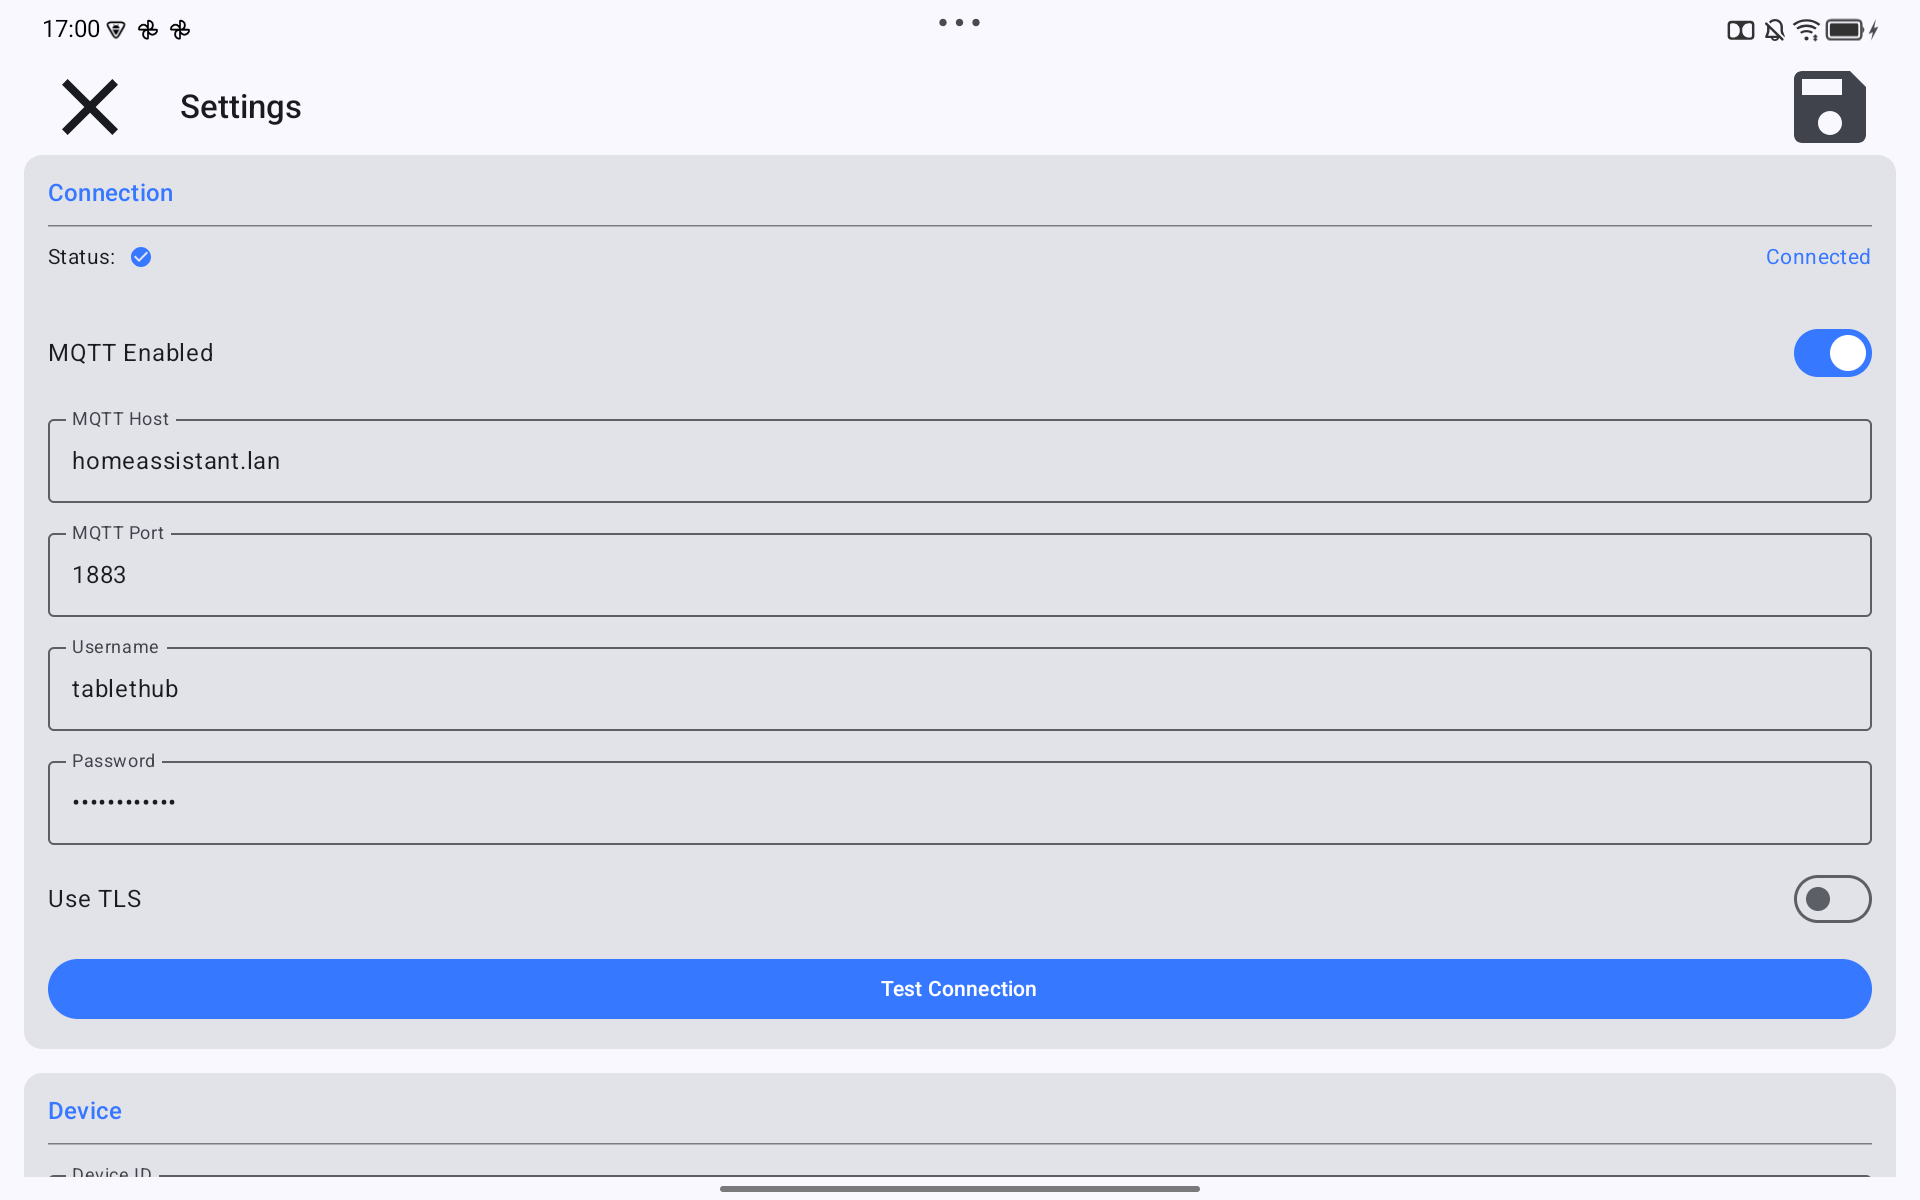
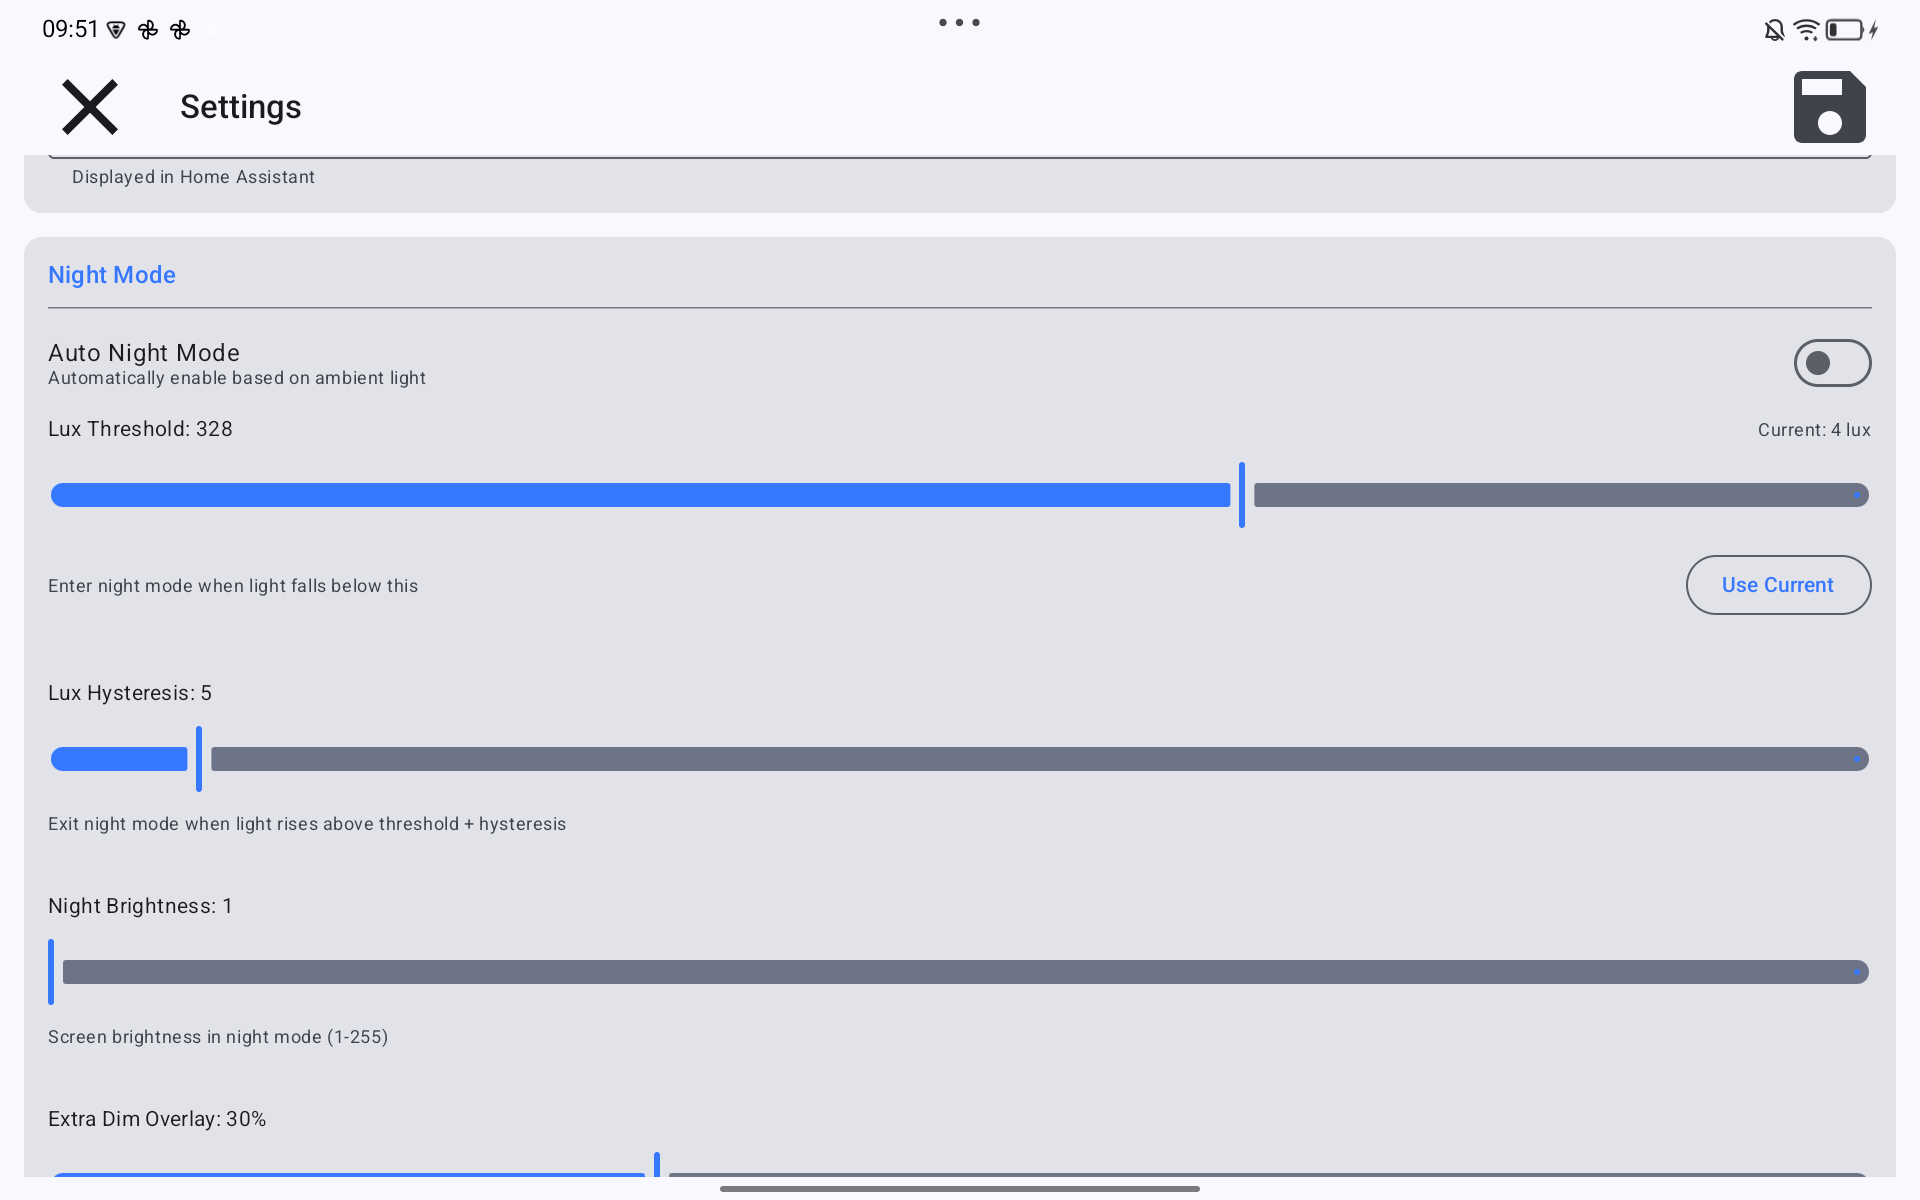
Add extra dim overlay for night mode and convert settings to sliders
Add a configurable dim overlay (0-90%) that draws a semi-transparent
black layer over the night clock display, allowing the screen to appear
darker than the hardware minimum brightness. Also convert numeric
settings fields to sliders for better UX: lux threshold, lux hysteresis,
night brightness, and snooze duration.

diff --git a/app/src/main/java/net/damian/tablethub/ui/screens/settings/SettingsScreen.kt b/app/src/main/java/net/damian/tablethub/ui/screens/settings/SettingsScreen.kt
@@ -30,6 +30,7 @@ import androidx.compose.material3.MaterialTheme
 import androidx.compose.material3.OutlinedButton
 import androidx.compose.material3.OutlinedTextField
 import androidx.compose.material3.Scaffold
+import androidx.compose.material3.Slider
 import androidx.compose.material3.SnackbarHost
 import androidx.compose.material3.SnackbarHostState
 import androidx.compose.material3.Switch
@@ -232,25 +233,37 @@ fun SettingsScreen(
                     subtitle = "Automatically enable based on ambient light"
                 )
 
-                OutlinedTextField(
-                    value = uiState.nightModeConfig.luxThreshold.toString(),
-                    onValueChange = { viewModel.updateNightModeLuxThreshold(it) },
-                    label = { Text("Lux Threshold") },
-                    modifier = Modifier.fillMaxWidth(),
-                    singleLine = true,
-                    keyboardOptions = KeyboardOptions(keyboardType = KeyboardType.Number),
-                    supportingText = { Text("Enter night mode when light falls below this (default: 15)") }
-                )
-
-                // Calibration row
                 Row(
                     modifier = Modifier.fillMaxWidth(),
                     horizontalArrangement = Arrangement.SpaceBetween,
                     verticalAlignment = Alignment.CenterVertically
                 ) {
                     Text(
-                        text = "Current light: ${currentLux.toInt()} lux",
+                        text = "Lux Threshold: ${uiState.nightModeConfig.luxThreshold}",
                         style = MaterialTheme.typography.bodyMedium
+                    )
+                    Text(
+                        text = "Current: ${currentLux.toInt()} lux",
+                        style = MaterialTheme.typography.bodySmall,
+                        color = MaterialTheme.colorScheme.onSurfaceVariant
+                    )
+                }
+                Slider(
+                    value = uiState.nightModeConfig.luxThreshold.toFloat(),
+                    onValueChange = { viewModel.updateNightModeLuxThreshold(it.toInt()) },
+                    valueRange = 1f..500f,
+                    modifier = Modifier.fillMaxWidth()
+                )
+                Row(
+                    modifier = Modifier.fillMaxWidth(),
+                    horizontalArrangement = Arrangement.SpaceBetween,
+                    verticalAlignment = Alignment.CenterVertically
+                ) {
+                    Text(
+                        text = "Enter night mode when light falls below this",
+                        style = MaterialTheme.typography.bodySmall,
+                        color = MaterialTheme.colorScheme.onSurfaceVariant,
+                        modifier = Modifier.weight(1f)
                     )
                     OutlinedButton(
                         onClick = { viewModel.calibrateLuxThreshold() }
@@ -259,24 +272,58 @@ fun SettingsScreen(
                     }
                 }
 
-                OutlinedTextField(
-                    value = uiState.nightModeConfig.luxHysteresis.toString(),
-                    onValueChange = { viewModel.updateNightModeLuxHysteresis(it) },
-                    label = { Text("Lux Hysteresis") },
-                    modifier = Modifier.fillMaxWidth(),
-                    singleLine = true,
-                    keyboardOptions = KeyboardOptions(keyboardType = KeyboardType.Number),
-                    supportingText = { Text("Exit night mode when light rises above threshold + hysteresis (default: 5)") }
+                Spacer(modifier = Modifier.height(16.dp))
+
+                Text(
+                    text = "Lux Hysteresis: ${uiState.nightModeConfig.luxHysteresis}",
+                    style = MaterialTheme.typography.bodyMedium
+                )
+                Slider(
+                    value = uiState.nightModeConfig.luxHysteresis.toFloat(),
+                    onValueChange = { viewModel.updateNightModeLuxHysteresis(it.toInt()) },
+                    valueRange = 1f..50f,
+                    modifier = Modifier.fillMaxWidth()
+                )
+                Text(
+                    text = "Exit night mode when light rises above threshold + hysteresis",
+                    style = MaterialTheme.typography.bodySmall,
+                    color = MaterialTheme.colorScheme.onSurfaceVariant
                 )
 
-                OutlinedTextField(
-                    value = uiState.nightModeConfig.nightBrightness.toString(),
-                    onValueChange = { viewModel.updateNightModeBrightness(it) },
-                    label = { Text("Night Brightness") },
-                    modifier = Modifier.fillMaxWidth(),
-                    singleLine = true,
-                    keyboardOptions = KeyboardOptions(keyboardType = KeyboardType.Number),
-                    supportingText = { Text("Screen brightness in night mode (1-255, default: 5)") }
+                Spacer(modifier = Modifier.height(16.dp))
+
+                Text(
+                    text = "Night Brightness: ${uiState.nightModeConfig.nightBrightness}",
+                    style = MaterialTheme.typography.bodyMedium
+                )
+                Slider(
+                    value = uiState.nightModeConfig.nightBrightness.toFloat(),
+                    onValueChange = { viewModel.updateNightModeBrightness(it.toInt()) },
+                    valueRange = 1f..255f,
+                    modifier = Modifier.fillMaxWidth()
+                )
+                Text(
+                    text = "Screen brightness in night mode (1-255)",
+                    style = MaterialTheme.typography.bodySmall,
+                    color = MaterialTheme.colorScheme.onSurfaceVariant
+                )
+
+                Spacer(modifier = Modifier.height(16.dp))
+
+                Text(
+                    text = "Extra Dim Overlay: ${uiState.nightModeConfig.dimOverlay}%",
+                    style = MaterialTheme.typography.bodyMedium
+                )
+                Slider(
+                    value = uiState.nightModeConfig.dimOverlay.toFloat(),
+                    onValueChange = { viewModel.updateNightModeDimOverlay(it.toInt()) },
+                    valueRange = 0f..90f,
+                    modifier = Modifier.fillMaxWidth()
+                )
+                Text(
+                    text = "Dims the screen beyond minimum brightness using a dark overlay",
+                    style = MaterialTheme.typography.bodySmall,
+                    color = MaterialTheme.colorScheme.onSurfaceVariant
                 )
             }
 
@@ -289,14 +336,20 @@ fun SettingsScreen(
                     subtitle = "Disable to let Home Assistant control wake-up (music, lights)"
                 )
 
-                OutlinedTextField(
-                    value = uiState.snoozeDurationMinutes.toString(),
-                    onValueChange = { viewModel.updateSnoozeDuration(it) },
-                    label = { Text("Snooze Duration (minutes)") },
-                    modifier = Modifier.fillMaxWidth(),
-                    singleLine = true,
-                    keyboardOptions = KeyboardOptions(keyboardType = KeyboardType.Number),
-                    supportingText = { Text("How long to snooze when you tap Snooze (1-60, default: 9)") }
+                Text(
+                    text = "Snooze Duration: ${uiState.snoozeDurationMinutes} minutes",
+                    style = MaterialTheme.typography.bodyMedium
+                )
+                Slider(
+                    value = uiState.snoozeDurationMinutes.toFloat(),
+                    onValueChange = { viewModel.updateSnoozeDuration(it.toInt()) },
+                    valueRange = 1f..30f,
+                    modifier = Modifier.fillMaxWidth()
+                )
+                Text(
+                    text = "How long to snooze when you tap Snooze",
+                    style = MaterialTheme.typography.bodySmall,
+                    color = MaterialTheme.colorScheme.onSurfaceVariant
                 )
             }
 

diff --git a/app/src/main/java/net/damian/tablethub/ui/screens/settings/SettingsViewModel.kt b/app/src/main/java/net/damian/tablethub/ui/screens/settings/SettingsViewModel.kt
@@ -136,24 +136,31 @@ class SettingsViewModel @Inject constructor(
         )
     }
 
-    fun updateNightModeLuxThreshold(threshold: String) {
-        val thresholdInt = threshold.toIntOrNull() ?: return
+    fun updateNightModeLuxThreshold(threshold: Int) {
+        val thresholdInt = threshold.coerceIn(1, 500)
         _uiState.value = _uiState.value.copy(
             nightModeConfig = _uiState.value.nightModeConfig.copy(luxThreshold = thresholdInt)
         )
     }
 
-    fun updateNightModeLuxHysteresis(hysteresis: String) {
-        val hysteresisInt = hysteresis.toIntOrNull() ?: return
+    fun updateNightModeLuxHysteresis(hysteresis: Int) {
+        val hysteresisInt = hysteresis.coerceIn(1, 50)
         _uiState.value = _uiState.value.copy(
             nightModeConfig = _uiState.value.nightModeConfig.copy(luxHysteresis = hysteresisInt)
         )
     }
 
-    fun updateNightModeBrightness(brightness: String) {
-        val brightnessInt = brightness.toIntOrNull()?.coerceIn(1, 255) ?: return
+    fun updateNightModeBrightness(brightness: Int) {
+        val brightnessInt = brightness.coerceIn(1, 255)
         _uiState.value = _uiState.value.copy(
             nightModeConfig = _uiState.value.nightModeConfig.copy(nightBrightness = brightnessInt)
+        )
+    }
+
+    fun updateNightModeDimOverlay(dimOverlay: Int) {
+        val dimOverlayInt = dimOverlay.coerceIn(0, 90)
+        _uiState.value = _uiState.value.copy(
+            nightModeConfig = _uiState.value.nightModeConfig.copy(dimOverlay = dimOverlayInt)
         )
     }
 
@@ -176,8 +183,8 @@ class SettingsViewModel @Inject constructor(
         }
     }
 
-    fun updateSnoozeDuration(minutes: String) {
-        val minutesInt = minutes.toIntOrNull()?.coerceIn(1, 60) ?: return
+    fun updateSnoozeDuration(minutes: Int) {
+        val minutesInt = minutes.coerceIn(1, 60)
         _uiState.value = _uiState.value.copy(snoozeDurationMinutes = minutesInt)
         // Save immediately
         viewModelScope.launch {

diff --git a/app/src/main/java/net/damian/tablethub/data/preferences/SettingsDataStore.kt b/app/src/main/java/net/damian/tablethub/data/preferences/SettingsDataStore.kt
@@ -39,6 +39,7 @@ class SettingsDataStore @Inject constructor(
     private val nightModeLuxThresholdKey = intPreferencesKey("night_mode_lux_threshold")
     private val nightModeLuxHysteresisKey = intPreferencesKey("night_mode_lux_hysteresis")
     private val nightModeBrightnessKey = intPreferencesKey("night_mode_brightness")
+    private val nightModeDimOverlayKey = intPreferencesKey("night_mode_dim_overlay")
 
     // Weather Settings
     private val weatherEnabledKey = booleanPreferencesKey("weather_enabled")
@@ -76,7 +77,8 @@ class SettingsDataStore @Inject constructor(
             autoEnabled = preferences[nightModeAutoEnabledKey] ?: false,
             luxThreshold = preferences[nightModeLuxThresholdKey] ?: 15,
             luxHysteresis = preferences[nightModeLuxHysteresisKey] ?: 5,
-            nightBrightness = preferences[nightModeBrightnessKey] ?: 5
+            nightBrightness = preferences[nightModeBrightnessKey] ?: 5,
+            dimOverlay = preferences[nightModeDimOverlayKey] ?: 0
         )
     }
 
@@ -140,6 +142,7 @@ class SettingsDataStore @Inject constructor(
             preferences[nightModeLuxThresholdKey] = config.luxThreshold
             preferences[nightModeLuxHysteresisKey] = config.luxHysteresis
             preferences[nightModeBrightnessKey] = config.nightBrightness
+            preferences[nightModeDimOverlayKey] = config.dimOverlay
         }
     }
 
@@ -185,7 +188,8 @@ data class NightModeConfig(
     val autoEnabled: Boolean = false,
     val luxThreshold: Int = 15,
     val luxHysteresis: Int = 5,
-    val nightBrightness: Int = 5
+    val nightBrightness: Int = 5,
+    val dimOverlay: Int = 0  // Extra dim overlay percentage (0-90)
 )
 
 data class WeatherConfig(

diff --git a/app/src/main/java/net/damian/tablethub/service/display/NightModeManager.kt b/app/src/main/java/net/damian/tablethub/service/display/NightModeManager.kt
@@ -54,7 +54,8 @@ class NightModeManager @Inject constructor(
                             isAutoEnabled = config.autoEnabled,
                             luxThreshold = config.luxThreshold.toFloat(),
                             luxHysteresis = config.luxHysteresis.toFloat(),
-                            nightBrightness = config.nightBrightness
+                            nightBrightness = config.nightBrightness,
+                            dimOverlay = config.dimOverlay
                         )
                     } else {
                         // Subsequent updates: only update config values, not manual state
@@ -63,7 +64,8 @@ class NightModeManager @Inject constructor(
                             isAutoEnabled = config.autoEnabled,
                             luxThreshold = config.luxThreshold.toFloat(),
                             luxHysteresis = config.luxHysteresis.toFloat(),
-                            nightBrightness = config.nightBrightness
+                            nightBrightness = config.nightBrightness,
+                            dimOverlay = config.dimOverlay
                         )
                     }
                 }
@@ -194,5 +196,6 @@ data class NightModeState(
     val luxThreshold: Float = 15f,
     val luxHysteresis: Float = 5f,
     val nightBrightness: Int = 5,
+    val dimOverlay: Int = 0,  // Extra dim overlay percentage (0-90)
     val preNightBrightness: Int? = null  // Brightness level before entering night mode
 )

diff --git a/app/src/main/java/net/damian/tablethub/ui/screens/clock/NightClockDisplay.kt b/app/src/main/java/net/damian/tablethub/ui/screens/clock/NightClockDisplay.kt
@@ -14,6 +14,7 @@ import androidx.compose.runtime.remember
 import androidx.compose.runtime.setValue
 import androidx.compose.ui.Alignment
 import androidx.compose.ui.Modifier
+import androidx.compose.ui.graphics.Color
 import androidx.compose.ui.text.font.FontWeight
 import androidx.compose.ui.unit.sp
 import kotlinx.coroutines.delay
@@ -26,11 +27,16 @@ import java.time.format.DateTimeFormatter
  * Minimal night mode clock display.
  * Shows only the time in red on a pure black background.
  * Tap anywhere to exit night mode.
+ *
+ * @param dimOverlay Extra dimming percentage (0-90). Draws a semi-transparent
+ *                   black overlay on top of everything to make the screen appear
+ *                   darker than the hardware minimum brightness allows.
  */
 @Composable
 fun NightClockDisplay(
     onTap: () -> Unit,
-    modifier: Modifier = Modifier
+    modifier: Modifier = Modifier,
+    dimOverlay: Int = 0
 ) {
     var currentTimeMillis by remember { mutableLongStateOf(System.currentTimeMillis()) }
 
@@ -64,5 +70,14 @@ fun NightClockDisplay(
             color = NightRed,
             letterSpacing = (-4).sp
         )
+
+        // Extra dim overlay - draws semi-transparent black on top of everything
+        if (dimOverlay > 0) {
+            Box(
+                modifier = Modifier
+                    .fillMaxSize()
+                    .background(Color.Black.copy(alpha = dimOverlay / 100f))
+            )
+        }
     }
 }

diff --git a/app/src/main/java/net/damian/tablethub/MainActivity.kt b/app/src/main/java/net/damian/tablethub/MainActivity.kt
@@ -64,7 +64,8 @@ class MainActivity : ComponentActivity() {
                 } else if (nightModeState.isActive) {
                     // Show minimal night clock display
                     NightClockDisplay(
-                        onTap = { nightModeManager.toggleNightMode() }
+                        onTap = { nightModeManager.toggleNightMode() },
+                        dimOverlay = nightModeState.dimOverlay
                     )
                 } else {
                     // Show normal UI
